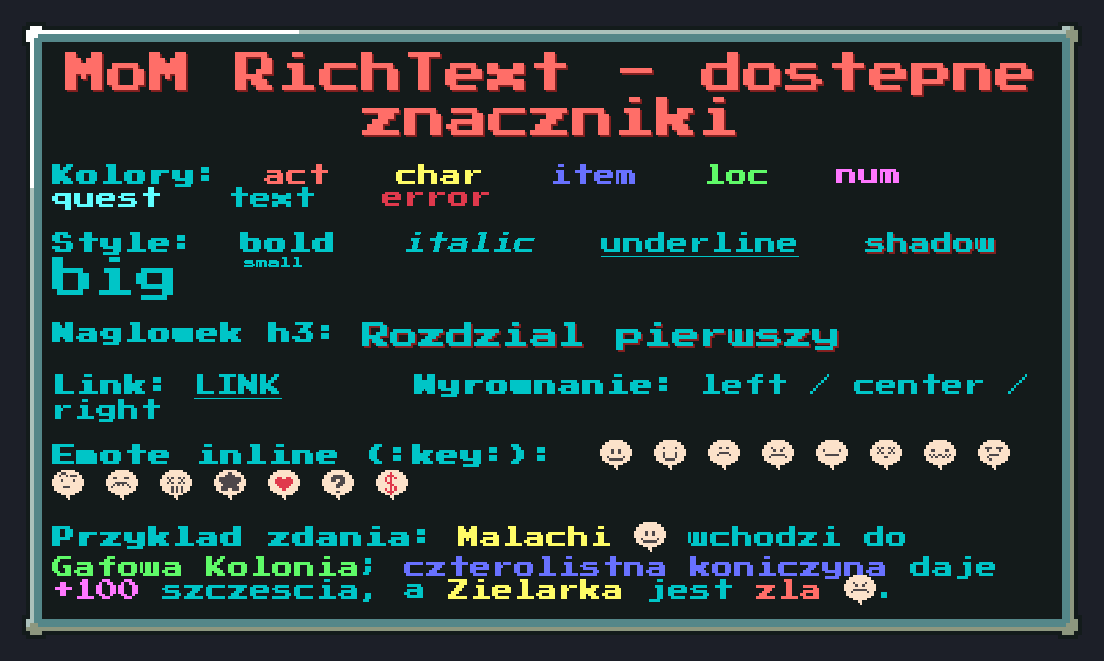
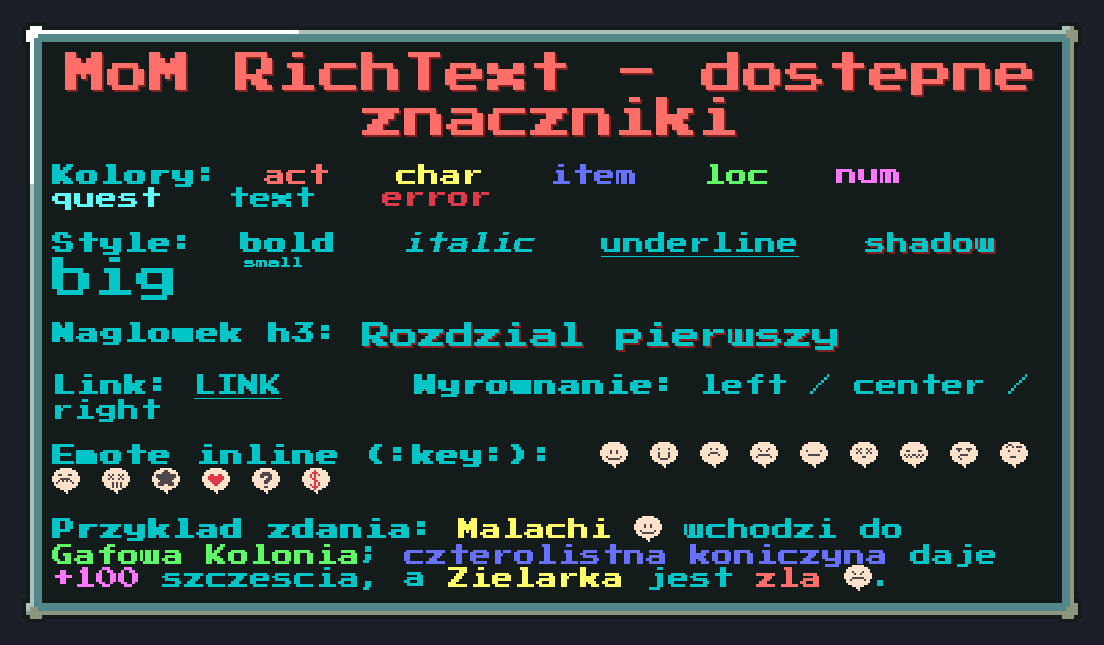
reimport and regen afeter refactor

diff --git a/project/assets/NinjaAdventure/maps/tilesets/Nature.tsx b/project/assets/NinjaAdventure/maps/tilesets/Nature.tsx
@@ -1,5 +1,5 @@
 <?xml version="1.0" encoding="UTF-8"?>
-<tileset version="1.10" tiledversion="1.11.0" name="NA_Nature" tilewidth="16" tileheight="16" tilecount="504" columns="24">
+<tileset version="1.10" tiledversion="1.12.2" name="NA_Nature" tilewidth="16" tileheight="16" tilecount="504" columns="24">
  <image source="images/TilesetNature.png" width="384" height="336"/>
  <tile id="240">
   <properties>
@@ -133,17 +133,42 @@
    <property name="destructible" type="bool" value="true"/>
   </properties>
  </tile>
+ <tile id="316">
+  <properties>
+   <property name="destruct_type" value="rock"/>
+   <property name="destructible" type="bool" value="true"/>
+  </properties>
+  <objectgroup draworder="index" id="2">
+   <object id="1" x="0" y="2" width="16" height="14"/>
+  </objectgroup>
+ </tile>
  <tile id="317">
   <properties>
    <property name="destruct_type" value="rock"/>
    <property name="destructible" type="bool" value="true"/>
   </properties>
+  <objectgroup draworder="index" id="2">
+   <object id="1" x="0" y="0" width="16" height="16"/>
+   <object id="2" x="0" y="4" width="16" height="12"/>
+  </objectgroup>
  </tile>
  <tile id="318">
   <properties>
    <property name="destruct_type" value="rock"/>
    <property name="destructible" type="bool" value="true"/>
   </properties>
+  <objectgroup draworder="index" id="2">
+   <object id="1" x="0" y="4" width="16" height="12"/>
+  </objectgroup>
+ </tile>
+ <tile id="319">
+  <properties>
+   <property name="destruct_type" value="rock"/>
+   <property name="destructible" type="bool" value="true"/>
+  </properties>
+  <objectgroup draworder="index" id="2">
+   <object id="1" x="1" y="4" width="14" height="12"/>
+  </objectgroup>
  </tile>
  <tile id="336">
   <properties>

diff --git a/scripts/quest_graph.py b/scripts/quest_graph.py
@@ -68,7 +68,7 @@ MODE_LABEL: dict[CompletionMode, str] = {
 }
 
 REWARD_UNIT: dict[str, str] = {
-    "money": "zł",
+    "money": "złota",
     "health": "HP",
     "max_health": "max HP",
     "damage": "obrażeń",
